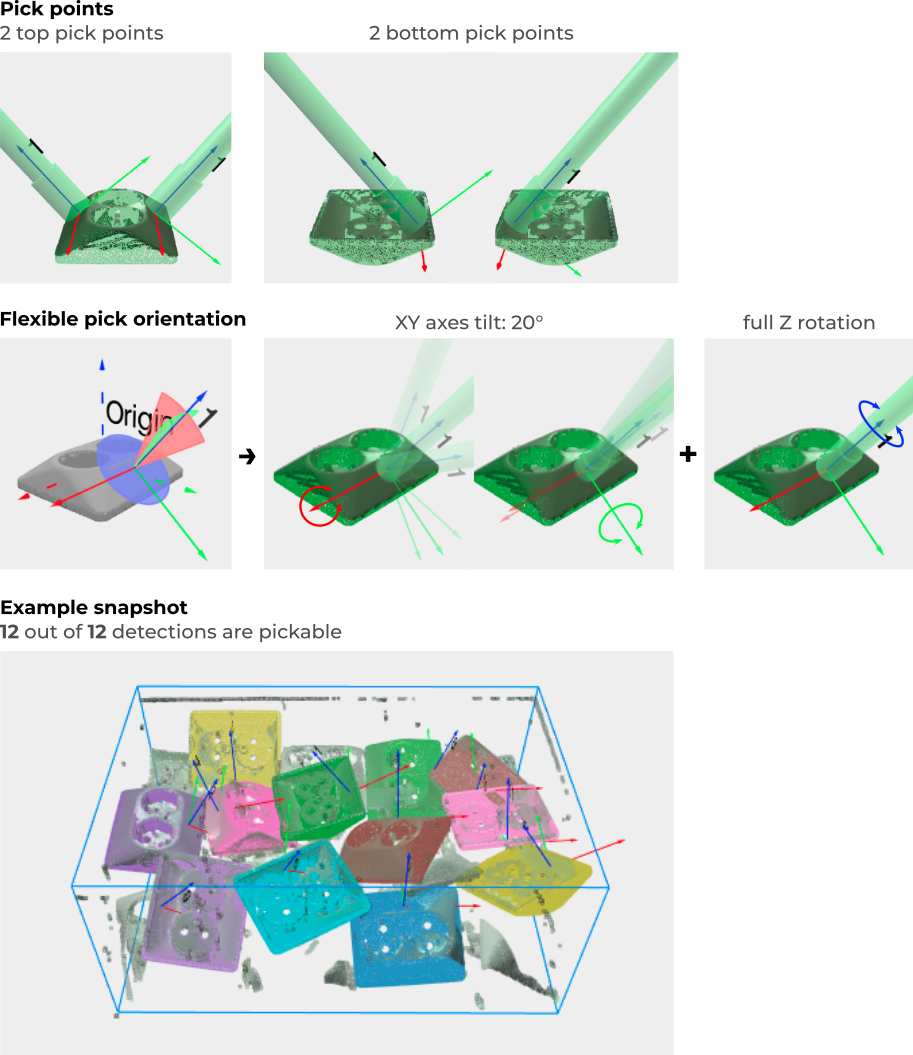
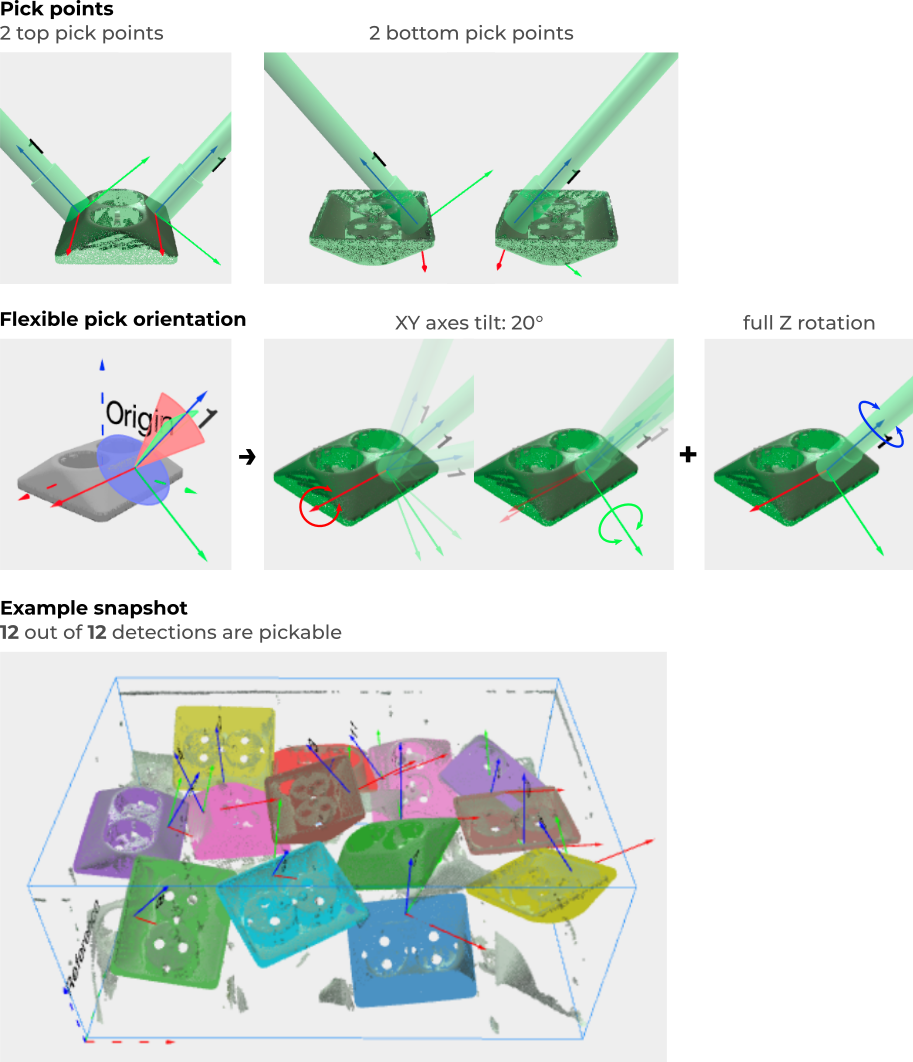
Update smart picking and placing examples for 2.4

diff --git a/docs/documentation/picking/smart-pick-examples.rst b/docs/documentation/picking/smart-pick-examples.rst
@@ -1,0 +1,81 @@
+
+.. _smart-picking-examples:
+
+Smart picking examples
+----------------------
+
+This article provides some example applications on how to smartly **pick** objects with Pickit.
+It presents in a practical way how to make good use of :ref:`multiple pick points <multiple-pick-points>`, :ref:`symmetry axes <pick-point-symmetry-axis>`, and robot tool :ref:`flexible pick orientation <flexible-pick-orientation>` to increase the likelihood that an object is pickable.
+
+To learn more about how to smartly **place** objects with Pickit, please take a look at the :ref:`smart placing examples <smart-place-examples>`.
+There, you will learn how to place objects in a consistent way, while keeping the robot program as simple as possible.
+
+.. _example-pick-ring-gripper:
+
+Pick a ring object with a two-finger gripper
+~~~~~~~~~~~~~~~~~~~~~~~~~~~~~~~~~~~~~~~~~~~~
+
+This part has a symmetry axis and it's possible to pick it from the top, bottom, or side.
+The picking configuration is as follows:
+
+- **Three pick points**, as it's possible to pick the part from the top, bottom or side.
+
+  - All pick points are **symmetric** about the part's axis.
+
+  - The top and bottom pick points are internal grasps on a circular hole, which are self-centering. Since the side pick is not self-centering, it's given a **lower priority**.
+
+- **Two-finger gripper** :ref:`tool model <robot-tool-model>`, with a flexible pick orientation that allows a **Y-axis tilt**.
+
+
+.. image:: /assets/images/documentation/picking/example_ring_gripper.png
+    :scale: 70%
+    :align: center
+
+.. note::
+  A similar example can be interactively explored by opening the ``examples/cad/red_rings.snapshot`` :ref:`snapshot <Snapshots>`.
+
+.. _example-pick-socket-gripper:
+
+Pick sockets with a two-finger gripper
+~~~~~~~~~~~~~~~~~~~~~~~~~~~~~~~~~~~~~~
+
+This part has distinct top and bottom sides, and has the following picking configuration:
+
+- **Four pick points**, two on each side.
+  The two pick points of each side have a 180° offset in Z to represent the bilateral symmetry of the gripper.
+  Representing this discrete symmetry allows Pickit to chose the one that is closest to the :ref:`preferred pick point orientation <preferred-orientation-teach>`, and potentially minimize robot motions.
+
+- **Two finger gripper** :ref:`tool model <robot-tool-model>`, with a flexible pick orientation that allows a **Y-axis tilt**.
+
+.. image:: /assets/images/documentation/picking/example_socket_gripper.png
+    :scale: 70%
+    :align: center
+
+.. note::
+  A similar example can be interactively explored by opening the ``examples/cad/white_sockets_gripper.snapshot`` :ref:`snapshot <Snapshots>`.
+
+  .. _example-pick-socket-suction:
+
+Pick sockets with a suction gripper
+~~~~~~~~~~~~~~~~~~~~~~~~~~~~~~~~~~~
+
+This is the same part as in the :ref:`previous example <example-pick-socket-gripper>`, the only difference being that it's now picked by a suction gripper, instead of by a two-finger gripper.
+It has the following picking configuration:
+
+- **Four pick points**, two on each side.
+
+- **Cylinder-shaped** :ref:`tool model <robot-tool-model>`, with a flexible pick orientation that allows:
+
+  - **XY axes tilt:** The flexible bellows at the tip of the suction cup allow tilting in any direction.
+
+  - **Full rotation about Z-axis:** The tool is free to rotate about its axis.
+
+.. image:: /assets/images/documentation/picking/example_socket_suction.png
+    :scale: 75%
+    :align: center
+
+.. note::
+  Notice the impact of gripper choice on the number of pickable objects: all **12 detected objects** are pickable with the suction gripper, while **only 10** are with the :ref:`two-finger gripper <example-pick-socket-gripper>`.
+
+.. note::
+  A similar example can be interactively explored by opening the ``examples/cad/white_sockets_suction.snapshot`` :ref:`snapshot <Snapshots>`.

diff --git a/docs/documentation/picking/smart-place-examples.rst b/docs/documentation/picking/smart-place-examples.rst
@@ -1,13 +1,12 @@
 .. _smart-place-examples:
 
-Smart placing using pick point data
------------------------------------
+Smart placing examples
+----------------------
 
-Having multiple and/or flexible pick points increases the likelihood that an object is pickable, which significantly :ref:`benefits bin picking applications <pick-points-teach-examples>`.
-However, after picking an object, the robot usually needs to know something about the way the object was picked, in order to place it appropriately.
+When an object has multiple ways of being picked, Pickit smartly selects the best one to use, as shown in the :ref:`smart picking examples <smart-picking-examples>`.
+However, after picking an object, the robot usually needs some knowledge about the way the object was picked in order to place it appropriately.
 
-Concrete examples of such situations are listed below, as well as a brief explanation of how :ref:`pick point data <RC_PICKIT_GET_PICK_POINT_DATA>` can help to obtain the desired
-way to place the objects, while keeping the robot program as simple as possible.
+Concrete examples of such situations are listed below, as well as a brief explanation of how :ref:`pick point data <RC_PICKIT_GET_PICK_POINT_DATA>` can help to obtain the desired way to place the objects, while keeping the robot program as simple as possible.
 
 .. contents::
     :backlinks: top
